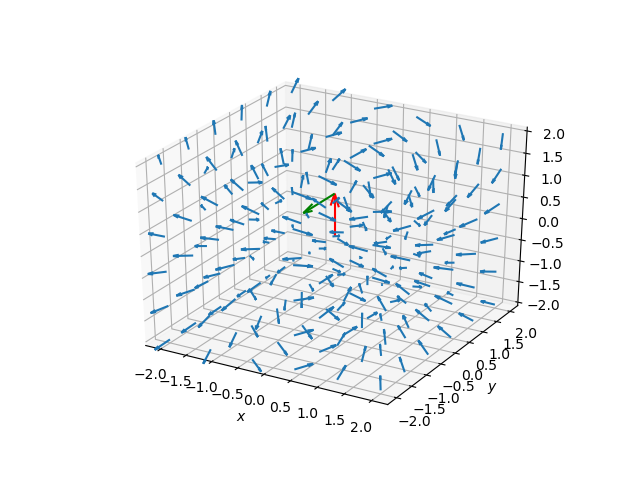
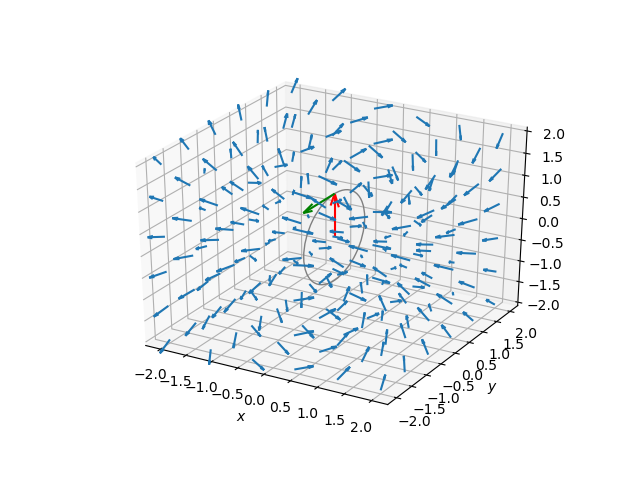
EBFieldSolver

diff --git a/src/FieldObject.py b/src/FieldObject.py
@@ -16,13 +16,8 @@ class Charge:
         self.R = 0.25
 
     def form(self):
-        if self.q == 0:
-            q_color = 'black'
-        elif self.q < 0:
-            q_color = 'blue'
-        else:
-            q_color = 'red'
-        circle = plt.Circle((self.r0[0], self.r0[1]), self.R, color=q_color)
+        qcolor = 'blue' if self.q < 0 else 'red'
+        circle = plt.Circle((self.r0[0], self.r0[1]), self.R, color=qcolor)
         plt.gca().add_patch(circle)
 
     def E(self, x, y, z):
@@ -34,8 +29,8 @@ class Charge:
     def phi(self, x, y, z):
         r = np.array([x, y, z])
         r_r0_norm = np.linalg.norm(r - self.r0)
-        phi = self.const * self.q * (1 / r_r0_norm)
-        return [phi, 0., 0.]
+        phi = self.const * self.q * (1 / r_r0_norm) * np.array([1., 0., 0.])
+        return phi
 
 
 class Current:
@@ -45,6 +40,13 @@ class Current:
         self.q = q
         self.r0 = np.array(r0)
         self.v = np.array(v)
+        self.R = 0.2
+
+    def form(self):
+        isymbol = 'x' if self.v[2] < 0 else 'o'
+        circle = plt.Circle((self.r0[0], self.r0[2]), self.R, color='grey', alpha=0.5)
+        plt.gca().add_patch(circle)
+        # plt.scatter(self.r0[0], self.r0[2], self.R*10, 'black', isymbol, zorder=2)
 
     def B(self, x, y, z):
         r = np.array([x, y, z])
@@ -62,7 +64,7 @@ class Current:
 
 class HertzDipole:
     def __init__(self, r0, frequency, power):
-        self.r0 = r0
+        self.r0 = np.array(r0)
         self.R = 0.05
         self.frequency = frequency
         self.T = 1. / frequency
@@ -73,7 +75,7 @@ class HertzDipole:
         self.p_z = np.sqrt(12. * np.pi * c * self.power / (mu_0 * self.omega ** 4))
 
     def form(self):
-        ellipse = patch.Ellipse(self.r0, 0.1, 0.2, color='grey', alpha=0.5)
+        ellipse = patch.Ellipse((self.r0[0], self.r0[1]), 0.1, 0.2, color='grey', alpha=0.5)
         plt.gca().add_patch(ellipse)
 
     def p(self, t):

diff --git a/src/StaticField.py b/src/StaticField.py
@@ -17,7 +17,7 @@ charges.append(Charge(-1., [1., -1., 0.]))
 
 "initialize electric circulating current with location, charge and velocity"
 currents = []
-for angle in np.linspace(0, 2. * np.pi, 8):
+for angle in np.linspace(0, 2. * np.pi, 32):
     r_z = np.cos(angle)
     r_y = np.sin(angle)
     v_z = -np.sin(angle)
@@ -38,8 +38,9 @@ if __name__ == "__main__":
 
     xy_max = 7.5
     n_xy = 30.
-    Bx, By, Bz = field(xy_max, n_xy, objects=currents, function='B')
-    field_lines(xy_max, n_xy, Bx, By)
+    Bx, By, Bz = field(xy_max, n_xy, plane='xz', objects=currents, function='B')
+    field_lines(xy_max, n_xy, Bx, Bz)
+    forms(currents)
     axes()
     save_frame(loc='circ_current2d')
 

diff --git a/src/FieldUtil.py b/src/FieldUtil.py
@@ -124,10 +124,11 @@ def arrow_field3d(xyz_max, n_xyz, f_x, f_y, f_z):
     x, y, z = mesh3d(xyz_max, n_xyz)
     anim.aspect_ratio(False)
     plt.subplot(projection='3d', label='default')
-    plt.quiver(x, y, z, f_x, f_y, f_z, length=xyz_max / n_xyz, normalize=True)
-    # p = Circle((0, 0), 1, edgecolor='black', fill=False)
-    # ax.add_patch(p)
-    # art3d.pathpatch_2d_to_3d(p, z=0, zdir="x")
+    plt.quiver(x, y, z, f_x, f_y, f_z,
+               length=xyz_max / n_xyz, normalize=True)
+    ring = Circle((0, 0), 1, edgecolor='grey', fill=False)
+    plt.gca().add_patch(ring)
+    art3d.pathpatch_2d_to_3d(ring, z=0, zdir="x")
 
 
 def potential_lines(xy_max, n_xy, f_xy):
